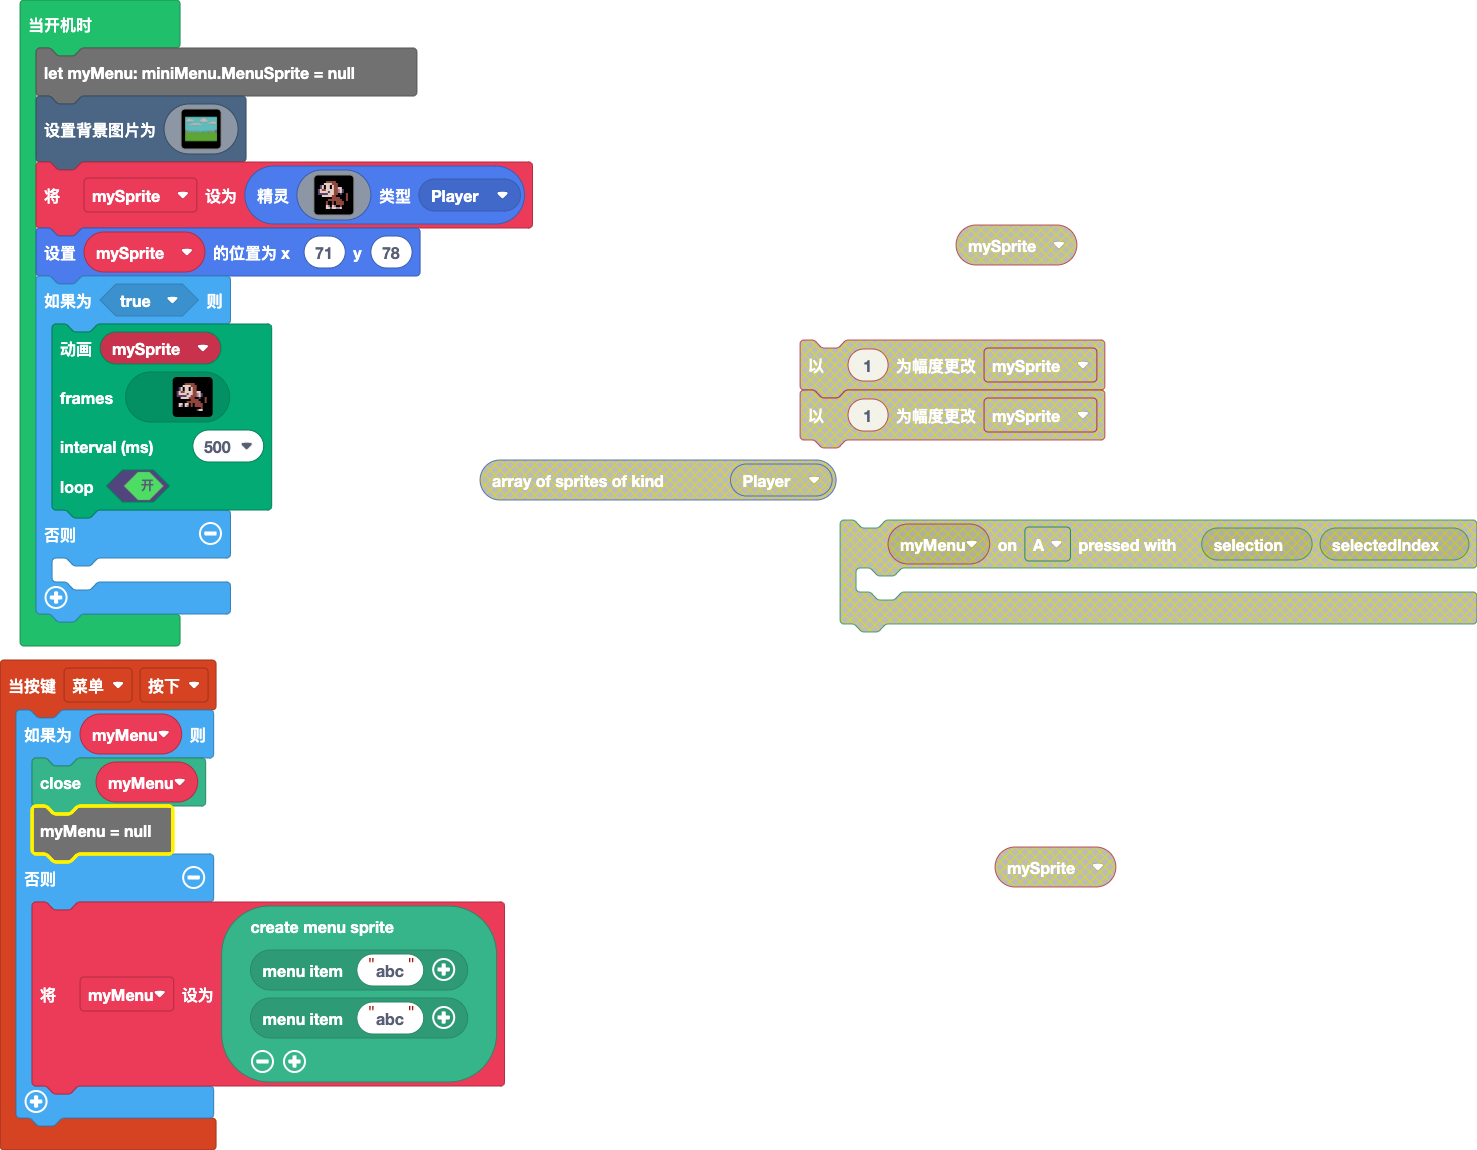
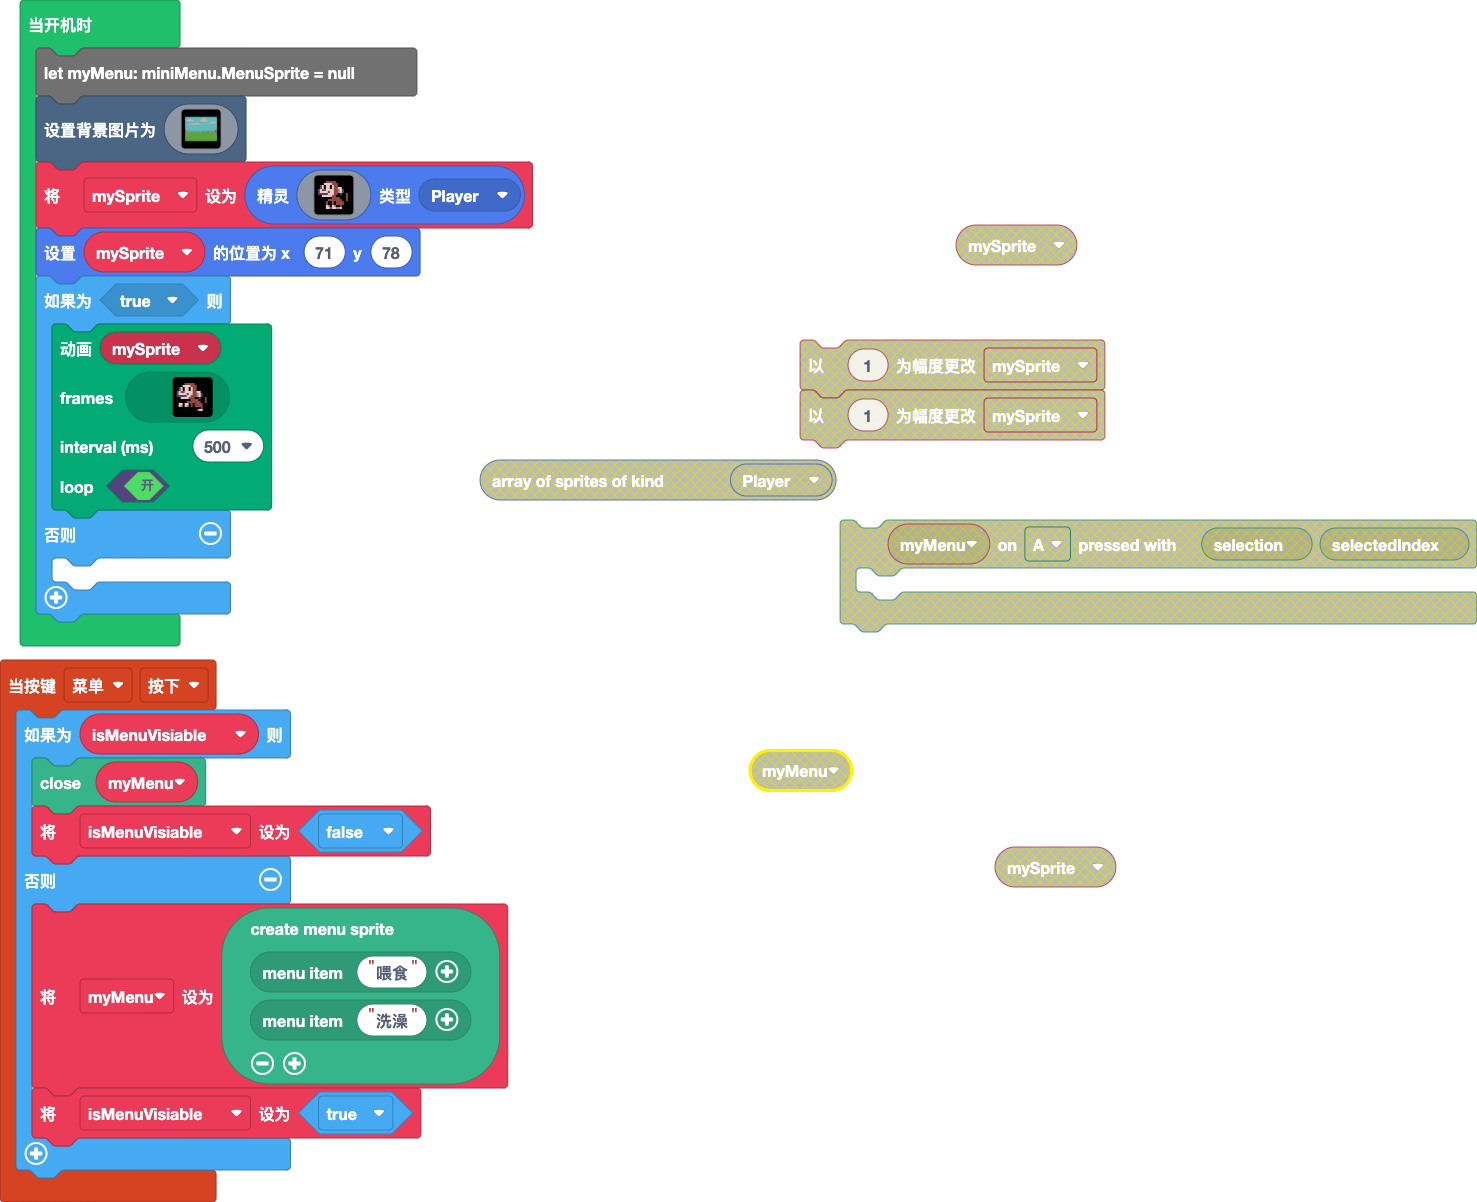
更新 main.blocks, main.ts

diff --git a/main.ts b/main.ts
@@ -1,14 +1,16 @@
 controller.menu.onEvent(ControllerButtonEvent.Pressed, function () {
-    if (myMenu) {
+    if (isMenuVisiable) {
         myMenu.close()
-        myMenu = null
+        isMenuVisiable = false
     } else {
         myMenu = miniMenu.createMenu(
-        miniMenu.createMenuItem("abc"),
-        miniMenu.createMenuItem("abc")
+        miniMenu.createMenuItem("喂食"),
+        miniMenu.createMenuItem("洗澡")
         )
+        isMenuVisiable = true
     }
 })
+let isMenuVisiable = false
 let myMenu: miniMenu.MenuSprite = null
 scene.setBackgroundImage(img`
     9999999999999999999999999999999999999999999999999999999999999999999999999999999999999999999999999999999999999999999999999999999999999999999999999999999999999999
